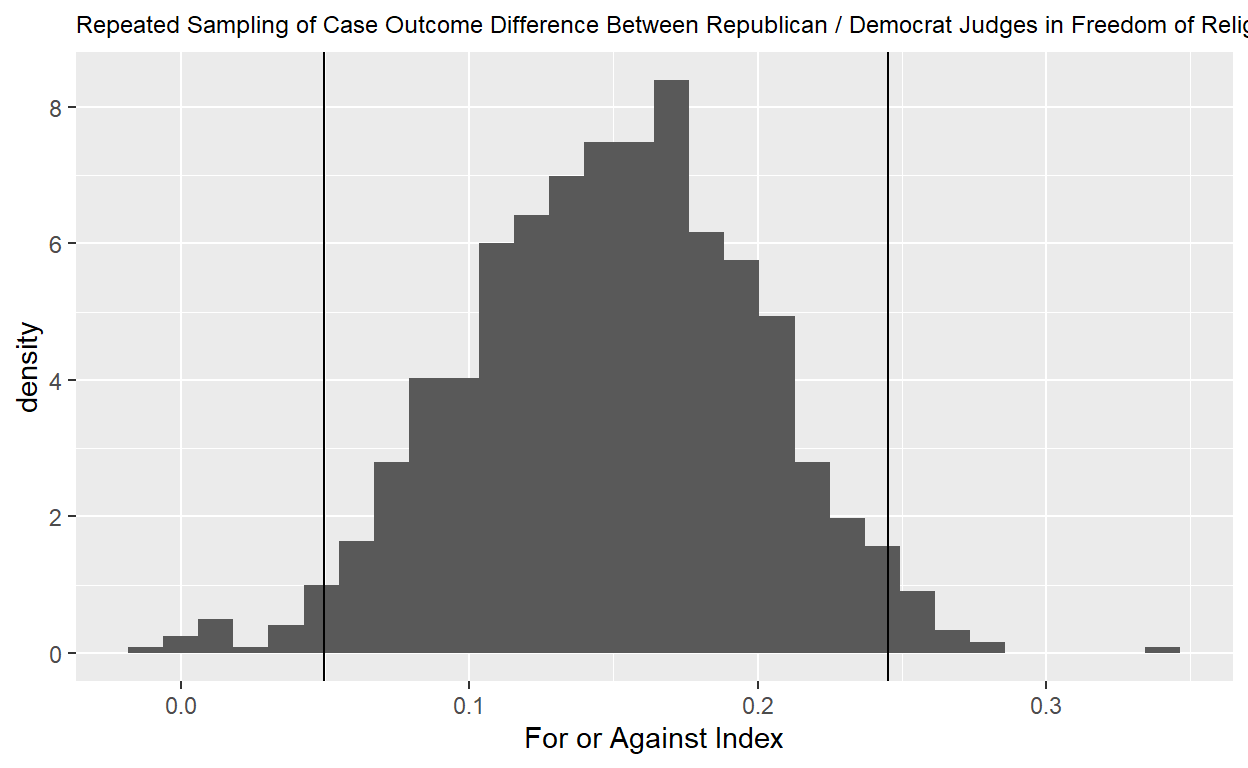
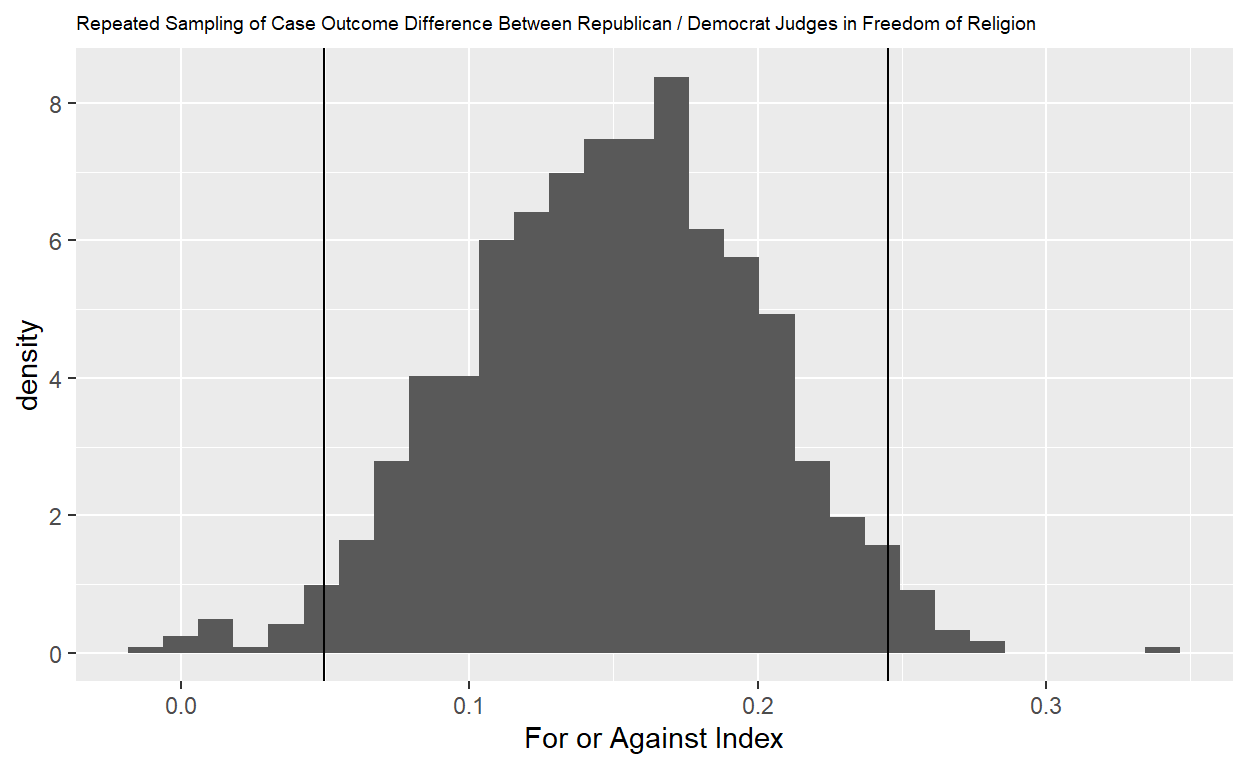
Publishing Final

diff --git a/index.html b/index.html
@@ -1524,11 +1524,11 @@ code span.wa { color: #5e5e5e; font-style: italic; } /* Warning */
 <p><img src="data/lawbench.jpg" /><!-- --></p>
 </div>
 <h2 id="introduction">Introduction</h2>
-<p>Whenever a vacancy arises in a federal district court judgeship, the President and Senate have respective responsibilities of nominating and confirming candidates. There are few formal restrictions on who can be nominated, but customarily, the candidates for these positions are chosen in consultation with the senators of the home state in which the district is located. To illustrate this practice, if a vacancy arises in the United States District Court for the Middle District of Tennessee, the President will consult with the senators from Tennessee. If the senators are of the same political party as the President, the state senators will typically identify candidates for nomination. Even if the senators are not of the same party, it remains customary to still both home state Senators to determine acceptability of the candidate (Steven Rutkus, 2016).</p>
-<p>Given the often partisan nature of these proceedings, I intend to evaluate whether the political party of a ruling judge has any impact on the average case outcome for or against defendants / petitioners. Using data from federal district courts, I will divide the cases by category, looking at issues that may be more politicized, such as alien petitions or free speech. I then will analyze if there is a statistically significant difference in average ruling between Democrat and Republican judges. I hypothesize that the political party of the judge deciding the case will have some correlation with the outcome of a case, and that on average, Democrats will be more likely than Republicans to rule in favor a defendant or petitioner.</p>
+<p>Whenever a vacancy arises in a federal district court judgeship, the President and Senate have respective responsibilities of nominating and confirming candidates. There are few formal restrictions on who can be nominated, but customarily, the candidates for these positions are chosen in consultation with the senators of the home state in which the district is located. To illustrate this practice, if a vacancy arises in the United States District Court for the Middle District of Tennessee, the President will consult with the senators from Tennessee. If the senators are of the same political party as the President, the state senators will typically identify candidates for nomination. Even if the senators are not of the same party, it remains customary to still consult both home state Senators to determine acceptability of the candidate (Steven Rutkus, 2016).</p>
+<p>Given the often partisan nature of these proceedings, I intend to evaluate whether the political party of a ruling judge has any impact on the average case outcome for or against defendants / petitioners, specifically for cases concerning issues that may be partisan. Using data from federal district courts, I will divide the cases by category, looking at issues that may be more politicized, such as alien petitions or free speech. I then will analyze if there is a statistically significant difference in average ruling between Democrat and Republican judges. I hypothesize that the political party of the judge deciding the case will have some correlation with the outcome of a case, and that on average, Democrats will be more likely than Republicans to rule in favor a defendant or petitioner.</p>
 <h2 id="data">Data</h2>
 <p>To analyze my hypotheses, I employ the U.S. District Court Database dataset by Robert Carp and Kenneth Manning. The dataset is an observational cross-section, and contains virtually all federal district court decisions published since 1933 in which holdings can be interpreted through a binary (e.g. for or against petitioner, for or against free speech). The dataset contains information by case including judge party affiliation, how the case was decided (against or in favor of the defendant/petitioner), and the category of case.</p>
-<p>I first divide the cases by category, and select several categories often discussed in relation to partisan politics like alien petitions, which concern petitions by non-citizens who might wish to immigrate to the US, freedom of expression, and environmental protection. Then, grouping by party, I measure the average of an outcome variable, which is whether a case is decided in favor of a defendant / petitioner (=1) or against (=0). An average nearing 0 in this index demonstrates a higher average of deciding against An average nearing 1 indicates a higher average of deciding in favor. To consider more recent trends and political issues, I filter the dataset to only include the years 2000-2012 and politicized case categories.</p>
+<p>I first divide the cases by category, and select several categories often discussed in relation to partisan politics like alien petitions, which concern petitions by non-citizens who might wish to immigrate to the US, freedom of expression, and environmental protection. Then, grouping by party, I measure the average of an outcome variable, which is whether a case is decided in favor of a defendant / petitioner (=1) or against (=0). An average nearing 0 in this index demonstrates a higher average of deciding against, while an average nearing 1 indicates a higher average of deciding in favor. To consider more recent trends and political issues, I filter the dataset to only include the years 2000-2012 and politicized case categories.</p>
 <div class="layout-chunk" data-layout="l-body">
 <div class="sourceCode">
 <pre class="sourceCode r"><code class="sourceCode r"><span><span class='co'>#libraries</span></span>
@@ -1655,7 +1655,7 @@ code span.wa { color: #5e5e5e; font-style: italic; } /* Warning */
 <span></span>
 <span><span class='co'>#Bootstrap distribution and CI plot</span></span>
 <span><span class='va'>ap_boots_dist</span> <span class='op'>&lt;-</span> <span class='va'>ap_boots</span><span class='op'>|&gt;</span></span>
-<span>  <span class='fu'><a href='https://ggplot2.tidyverse.org/reference/ggplot.html'>ggplot</a></span><span class='op'>(</span><span class='fu'><a href='https://ggplot2.tidyverse.org/reference/aes.html'>aes</a></span><span class='op'>(</span>x<span class='op'>=</span><span class='va'>ATE</span><span class='op'>)</span><span class='op'>)</span><span class='op'>+</span><span class='fu'><a href='https://ggplot2.tidyverse.org/reference/geom_histogram.html'>geom_histogram</a></span><span class='op'>(</span><span class='fu'><a href='https://ggplot2.tidyverse.org/reference/aes.html'>aes</a></span><span class='op'>(</span>y<span class='op'>=</span><span class='fu'><a href='https://ggplot2.tidyverse.org/reference/aes_eval.html'>after_stat</a></span><span class='op'>(</span><span class='va'>density</span><span class='op'>)</span><span class='op'>)</span><span class='op'>)</span><span class='op'>+</span><span class='fu'><a href='https://ggplot2.tidyverse.org/reference/geom_abline.html'>geom_vline</a></span><span class='op'>(</span>xintercept<span class='op'>=</span><span class='fu'><a href='https://rdrr.io/r/base/unlist.html'>unlist</a></span><span class='op'>(</span><span class='va'>ap_95</span><span class='op'>)</span><span class='op'>)</span><span class='op'>+</span><span class='fu'><a href='https://ggplot2.tidyverse.org/reference/labs.html'>labs</a></span><span class='op'>(</span>title <span class='op'>=</span> <span class='st'>"Repeated Sampling of Case Outcome Difference Between Republican / Democrat Judges in Alien Petitions"</span>, x <span class='op'>=</span> <span class='st'>"For or Against Index"</span><span class='op'>)</span><span class='op'>+</span><span class='fu'><a href='https://ggplot2.tidyverse.org/reference/theme.html'>theme</a></span><span class='op'>(</span>plot.title <span class='op'>=</span> <span class='fu'><a href='https://ggplot2.tidyverse.org/reference/element.html'>element_text</a></span><span class='op'>(</span>size <span class='op'>=</span> <span class='fl'>9</span><span class='op'>)</span><span class='op'>)</span></span>
+<span>  <span class='fu'><a href='https://ggplot2.tidyverse.org/reference/ggplot.html'>ggplot</a></span><span class='op'>(</span><span class='fu'><a href='https://ggplot2.tidyverse.org/reference/aes.html'>aes</a></span><span class='op'>(</span>x<span class='op'>=</span><span class='va'>ATE</span><span class='op'>)</span><span class='op'>)</span><span class='op'>+</span><span class='fu'><a href='https://ggplot2.tidyverse.org/reference/geom_histogram.html'>geom_histogram</a></span><span class='op'>(</span><span class='fu'><a href='https://ggplot2.tidyverse.org/reference/aes.html'>aes</a></span><span class='op'>(</span>y<span class='op'>=</span><span class='fu'><a href='https://ggplot2.tidyverse.org/reference/aes_eval.html'>after_stat</a></span><span class='op'>(</span><span class='va'>density</span><span class='op'>)</span><span class='op'>)</span><span class='op'>)</span><span class='op'>+</span><span class='fu'><a href='https://ggplot2.tidyverse.org/reference/geom_abline.html'>geom_vline</a></span><span class='op'>(</span>xintercept<span class='op'>=</span><span class='fu'><a href='https://rdrr.io/r/base/unlist.html'>unlist</a></span><span class='op'>(</span><span class='va'>ap_95</span><span class='op'>)</span><span class='op'>)</span><span class='op'>+</span><span class='fu'><a href='https://ggplot2.tidyverse.org/reference/labs.html'>labs</a></span><span class='op'>(</span>title <span class='op'>=</span> <span class='st'>"Repeated Sampling of Case Outcome Difference Between Republican / Democrat Judges in Alien Petitions"</span>, x <span class='op'>=</span> <span class='st'>"For or Against Index"</span><span class='op'>)</span><span class='op'>+</span><span class='fu'><a href='https://ggplot2.tidyverse.org/reference/theme.html'>theme</a></span><span class='op'>(</span>plot.title <span class='op'>=</span> <span class='fu'><a href='https://ggplot2.tidyverse.org/reference/element.html'>element_text</a></span><span class='op'>(</span>size <span class='op'>=</span> <span class='fl'>7</span><span class='op'>)</span><span class='op'>)</span></span>
 <span></span>
 <span><span class='va'>ap_boots_dist</span></span></code></pre>
 </div>
@@ -1720,13 +1720,13 @@ code span.wa { color: #5e5e5e; font-style: italic; } /* Warning */
 <span></span>
 <span><span class='co'>#Bootstrap distribution and CI plot</span></span>
 <span><span class='va'>cc_boots_dist</span> <span class='op'>&lt;-</span> <span class='va'>cc_boots</span><span class='op'>|&gt;</span></span>
-<span>  <span class='fu'><a href='https://ggplot2.tidyverse.org/reference/ggplot.html'>ggplot</a></span><span class='op'>(</span><span class='fu'><a href='https://ggplot2.tidyverse.org/reference/aes.html'>aes</a></span><span class='op'>(</span>x<span class='op'>=</span><span class='va'>ATE</span><span class='op'>)</span><span class='op'>)</span><span class='op'>+</span><span class='fu'><a href='https://ggplot2.tidyverse.org/reference/geom_histogram.html'>geom_histogram</a></span><span class='op'>(</span><span class='fu'><a href='https://ggplot2.tidyverse.org/reference/aes.html'>aes</a></span><span class='op'>(</span>y<span class='op'>=</span><span class='fu'><a href='https://ggplot2.tidyverse.org/reference/aes_eval.html'>after_stat</a></span><span class='op'>(</span><span class='va'>density</span><span class='op'>)</span><span class='op'>)</span><span class='op'>)</span><span class='op'>+</span><span class='fu'><a href='https://ggplot2.tidyverse.org/reference/geom_abline.html'>geom_vline</a></span><span class='op'>(</span>xintercept<span class='op'>=</span><span class='fu'><a href='https://rdrr.io/r/base/unlist.html'>unlist</a></span><span class='op'>(</span><span class='va'>cc_95</span><span class='op'>)</span><span class='op'>)</span><span class='op'>+</span><span class='fu'><a href='https://ggplot2.tidyverse.org/reference/labs.html'>labs</a></span><span class='op'>(</span>title <span class='op'>=</span> <span class='st'>"Repeated Sampling of Case Outcome Difference Between Republican / Democrat Judges in Criminal Court Motions"</span>, x <span class='op'>=</span> <span class='st'>"For or Against Index"</span><span class='op'>)</span><span class='op'>+</span><span class='fu'><a href='https://ggplot2.tidyverse.org/reference/theme.html'>theme</a></span><span class='op'>(</span>plot.title <span class='op'>=</span> <span class='fu'><a href='https://ggplot2.tidyverse.org/reference/element.html'>element_text</a></span><span class='op'>(</span>size <span class='op'>=</span> <span class='fl'>9</span><span class='op'>)</span><span class='op'>)</span></span>
+<span>  <span class='fu'><a href='https://ggplot2.tidyverse.org/reference/ggplot.html'>ggplot</a></span><span class='op'>(</span><span class='fu'><a href='https://ggplot2.tidyverse.org/reference/aes.html'>aes</a></span><span class='op'>(</span>x<span class='op'>=</span><span class='va'>ATE</span><span class='op'>)</span><span class='op'>)</span><span class='op'>+</span><span class='fu'><a href='https://ggplot2.tidyverse.org/reference/geom_histogram.html'>geom_histogram</a></span><span class='op'>(</span><span class='fu'><a href='https://ggplot2.tidyverse.org/reference/aes.html'>aes</a></span><span class='op'>(</span>y<span class='op'>=</span><span class='fu'><a href='https://ggplot2.tidyverse.org/reference/aes_eval.html'>after_stat</a></span><span class='op'>(</span><span class='va'>density</span><span class='op'>)</span><span class='op'>)</span><span class='op'>)</span><span class='op'>+</span><span class='fu'><a href='https://ggplot2.tidyverse.org/reference/geom_abline.html'>geom_vline</a></span><span class='op'>(</span>xintercept<span class='op'>=</span><span class='fu'><a href='https://rdrr.io/r/base/unlist.html'>unlist</a></span><span class='op'>(</span><span class='va'>cc_95</span><span class='op'>)</span><span class='op'>)</span><span class='op'>+</span><span class='fu'><a href='https://ggplot2.tidyverse.org/reference/labs.html'>labs</a></span><span class='op'>(</span>title <span class='op'>=</span> <span class='st'>"Repeated Sampling of Case Outcome Difference Between Republican / Democrat Judges in Criminal Court Motions"</span>, x <span class='op'>=</span> <span class='st'>"For or Against Index"</span><span class='op'>)</span><span class='op'>+</span><span class='fu'><a href='https://ggplot2.tidyverse.org/reference/theme.html'>theme</a></span><span class='op'>(</span>plot.title <span class='op'>=</span> <span class='fu'><a href='https://ggplot2.tidyverse.org/reference/element.html'>element_text</a></span><span class='op'>(</span>size <span class='op'>=</span> <span class='fl'>7</span><span class='op'>)</span><span class='op'>)</span></span>
 <span></span>
 <span><span class='va'>cc_boots_dist</span></span></code></pre>
 </div>
 <p><img src="index_files/figure-html5/unnamed-chunk-5-1.png" width="624" /></p>
 </div>
-<p>Partisan average outcomes in Criminal Court Motions</p>
+<p>Partisan Average outcomes in Criminal Court Motions</p>
 <p>Regression: After running a linear regression for Criminal Court Motion cases, the Y intercept is 0.410 when the ruling judge’s political party is not Republican, or conversely, when the judge is a Democrat. This indicates that on the 0-1 index of ruling against or in favor of a petitioner, Democrat judges have an average ruling outcome of 0.410 points. This means that if a Democrat judge were to become Republican, there would be an expected -0.125 point decrease in average case outcome in favor of a defendant / petitioner. The median of the bootstrap distribution appears to be centered around this point difference.</p>
 <p>Null hypothesis: After taking the difference in means for case outcome by party, we create a bootstrap distribution with repeated sampling of this difference. A 95% confidence interval is employed, shown by the two vertical lines on the graph. A 95% confidence interval means that across the repeated samples, the true value of difference in case outcome by political party will fall within the interval. If there is no difference at all, which would be our null hypothesis, this would be indicated by 0 falling within the confidence interval. However, this does not happen above, leading us to conclude that there is a statistically significant difference between Criminal Court Motion cases decided by Republican and Democrat judges.</p>
 <div class="layout-chunk" data-layout="l-body">
@@ -1783,14 +1783,14 @@ code span.wa { color: #5e5e5e; font-style: italic; } /* Warning */
 <span>  <span class='fu'><a href='https://infer.tidymodels.org/reference/get_confidence_interval.html'>get_ci</a></span><span class='op'>(</span>level<span class='op'>=</span><span class='fl'>0.95</span><span class='op'>)</span></span>
 <span></span>
 <span><span class='va'>ep_boots_dist</span> <span class='op'>&lt;-</span> <span class='va'>ep_boots</span><span class='op'>|&gt;</span></span>
-<span>  <span class='fu'><a href='https://ggplot2.tidyverse.org/reference/ggplot.html'>ggplot</a></span><span class='op'>(</span><span class='fu'><a href='https://ggplot2.tidyverse.org/reference/aes.html'>aes</a></span><span class='op'>(</span>x<span class='op'>=</span><span class='va'>ATE</span><span class='op'>)</span><span class='op'>)</span><span class='op'>+</span><span class='fu'><a href='https://ggplot2.tidyverse.org/reference/geom_histogram.html'>geom_histogram</a></span><span class='op'>(</span><span class='fu'><a href='https://ggplot2.tidyverse.org/reference/aes.html'>aes</a></span><span class='op'>(</span>y<span class='op'>=</span><span class='fu'><a href='https://ggplot2.tidyverse.org/reference/aes_eval.html'>after_stat</a></span><span class='op'>(</span><span class='va'>density</span><span class='op'>)</span><span class='op'>)</span><span class='op'>)</span><span class='op'>+</span><span class='fu'><a href='https://ggplot2.tidyverse.org/reference/geom_abline.html'>geom_vline</a></span><span class='op'>(</span>xintercept<span class='op'>=</span><span class='fu'><a href='https://rdrr.io/r/base/unlist.html'>unlist</a></span><span class='op'>(</span><span class='va'>ep_95</span><span class='op'>)</span><span class='op'>)</span><span class='op'>+</span><span class='fu'><a href='https://ggplot2.tidyverse.org/reference/labs.html'>labs</a></span><span class='op'>(</span>title <span class='op'>=</span> <span class='st'>"Repeated Sampling of Case Outcome Difference Between Republican / Democrat Judges in Environmental Protection"</span>, x <span class='op'>=</span> <span class='st'>"For or Against Index"</span><span class='op'>)</span><span class='op'>+</span><span class='fu'><a href='https://ggplot2.tidyverse.org/reference/theme.html'>theme</a></span><span class='op'>(</span>plot.title <span class='op'>=</span> <span class='fu'><a href='https://ggplot2.tidyverse.org/reference/element.html'>element_text</a></span><span class='op'>(</span>size <span class='op'>=</span> <span class='fl'>9</span><span class='op'>)</span><span class='op'>)</span></span>
+<span>  <span class='fu'><a href='https://ggplot2.tidyverse.org/reference/ggplot.html'>ggplot</a></span><span class='op'>(</span><span class='fu'><a href='https://ggplot2.tidyverse.org/reference/aes.html'>aes</a></span><span class='op'>(</span>x<span class='op'>=</span><span class='va'>ATE</span><span class='op'>)</span><span class='op'>)</span><span class='op'>+</span><span class='fu'><a href='https://ggplot2.tidyverse.org/reference/geom_histogram.html'>geom_histogram</a></span><span class='op'>(</span><span class='fu'><a href='https://ggplot2.tidyverse.org/reference/aes.html'>aes</a></span><span class='op'>(</span>y<span class='op'>=</span><span class='fu'><a href='https://ggplot2.tidyverse.org/reference/aes_eval.html'>after_stat</a></span><span class='op'>(</span><span class='va'>density</span><span class='op'>)</span><span class='op'>)</span><span class='op'>)</span><span class='op'>+</span><span class='fu'><a href='https://ggplot2.tidyverse.org/reference/geom_abline.html'>geom_vline</a></span><span class='op'>(</span>xintercept<span class='op'>=</span><span class='fu'><a href='https://rdrr.io/r/base/unlist.html'>unlist</a></span><span class='op'>(</span><span class='va'>ep_95</span><span class='op'>)</span><span class='op'>)</span><span class='op'>+</span><span class='fu'><a href='https://ggplot2.tidyverse.org/reference/labs.html'>labs</a></span><span class='op'>(</span>title <span class='op'>=</span> <span class='st'>"Repeated Sampling of Case Outcome Difference Between Republican / Democrat Judges in Environmental Protection"</span>, x <span class='op'>=</span> <span class='st'>"For or Against Index"</span><span class='op'>)</span><span class='op'>+</span><span class='fu'><a href='https://ggplot2.tidyverse.org/reference/theme.html'>theme</a></span><span class='op'>(</span>plot.title <span class='op'>=</span> <span class='fu'><a href='https://ggplot2.tidyverse.org/reference/element.html'>element_text</a></span><span class='op'>(</span>size <span class='op'>=</span> <span class='fl'>7</span><span class='op'>)</span><span class='op'>)</span></span>
 <span></span>
 <span><span class='va'>ep_boots_dist</span></span></code></pre>
 </div>
 <p><img src="index_files/figure-html5/unnamed-chunk-6-1.png" width="624" /></p>
 </div>
 <p>Partisan Average Outcomes in Environmental Protection Cases</p>
-<p>Regression: After running a linear regression for Environmental Protection cases, the Y intercept is 0.635 when the ruling judge’s political party is not Republican, or conversely, when the judge is a Democrat. This indicates that on the 0-1 index of ruling against or in favor of a petitioner, Democrat judges have an average ruling outcome of 0.410 points. This means that if a Democrat judge were to become Republican, there would be an expected -0.117 point decrease in average case outcome in favor of a defendant / petitioner. The median of the bootstrap distribution appears to be centered around this point difference.</p>
+<p>Regression: After running a linear regression for Environmental Protection cases, the Y intercept is 0.635 when the ruling judge’s political party is not Republican, or conversely, when the judge is a Democrat. This indicates that on the 0-1 index of ruling against or in favor of a petitioner, Democrat judges have an average ruling outcome of 0.635 points. This means that if a Democrat judge were to become Republican, there would be an expected -0.117 point decrease in average case outcome in favor of a defendant / petitioner. The median of the bootstrap distribution appears to be centered around this point difference.</p>
 <p>Null hypothesis: After taking the difference in means for case outcome by party, we create a bootstrap distribution with repeated sampling of this difference. A 95% confidence interval is employed, shown by the two vertical lines on the graph. A 95% confidence interval means that across the repeated samples, the true value of difference in case outcome by political party will fall within the interval. If there is no difference at all, which would be our null hypothesis, this would be indicated by 0 falling within the confidence interval. However, this does not happen above, leading us to conclude that there is a statistically significant difference between Environmental Protection cases decided by Republican and Democrat judges.</p>
 <div class="layout-chunk" data-layout="l-body">
 <div class="sourceCode">
@@ -1844,14 +1844,14 @@ code span.wa { color: #5e5e5e; font-style: italic; } /* Warning */
 <span>  <span class='fu'><a href='https://infer.tidymodels.org/reference/get_confidence_interval.html'>get_ci</a></span><span class='op'>(</span>level<span class='op'>=</span><span class='fl'>0.95</span><span class='op'>)</span></span>
 <span></span>
 <span><span class='va'>foe_boots_dist</span> <span class='op'>&lt;-</span> <span class='va'>foe_boots</span><span class='op'>|&gt;</span></span>
-<span>  <span class='fu'><a href='https://ggplot2.tidyverse.org/reference/ggplot.html'>ggplot</a></span><span class='op'>(</span><span class='fu'><a href='https://ggplot2.tidyverse.org/reference/aes.html'>aes</a></span><span class='op'>(</span>x<span class='op'>=</span><span class='va'>ATE</span><span class='op'>)</span><span class='op'>)</span><span class='op'>+</span><span class='fu'><a href='https://ggplot2.tidyverse.org/reference/geom_histogram.html'>geom_histogram</a></span><span class='op'>(</span><span class='fu'><a href='https://ggplot2.tidyverse.org/reference/aes.html'>aes</a></span><span class='op'>(</span>y<span class='op'>=</span><span class='fu'><a href='https://ggplot2.tidyverse.org/reference/aes_eval.html'>after_stat</a></span><span class='op'>(</span><span class='va'>density</span><span class='op'>)</span><span class='op'>)</span><span class='op'>)</span><span class='op'>+</span><span class='fu'><a href='https://ggplot2.tidyverse.org/reference/geom_abline.html'>geom_vline</a></span><span class='op'>(</span>xintercept<span class='op'>=</span><span class='fu'><a href='https://rdrr.io/r/base/unlist.html'>unlist</a></span><span class='op'>(</span><span class='va'>foe_95</span><span class='op'>)</span><span class='op'>)</span><span class='op'>+</span><span class='fu'><a href='https://ggplot2.tidyverse.org/reference/labs.html'>labs</a></span><span class='op'>(</span>title <span class='op'>=</span> <span class='st'>"Repeated Sampling of Case Outcome Difference Between Republican / Democrat Judges in Freedom of Expression"</span>, x <span class='op'>=</span> <span class='st'>"For or Against Index"</span><span class='op'>)</span><span class='op'>+</span><span class='fu'><a href='https://ggplot2.tidyverse.org/reference/theme.html'>theme</a></span><span class='op'>(</span>plot.title <span class='op'>=</span> <span class='fu'><a href='https://ggplot2.tidyverse.org/reference/element.html'>element_text</a></span><span class='op'>(</span>size <span class='op'>=</span> <span class='fl'>9</span><span class='op'>)</span><span class='op'>)</span></span>
+<span>  <span class='fu'><a href='https://ggplot2.tidyverse.org/reference/ggplot.html'>ggplot</a></span><span class='op'>(</span><span class='fu'><a href='https://ggplot2.tidyverse.org/reference/aes.html'>aes</a></span><span class='op'>(</span>x<span class='op'>=</span><span class='va'>ATE</span><span class='op'>)</span><span class='op'>)</span><span class='op'>+</span><span class='fu'><a href='https://ggplot2.tidyverse.org/reference/geom_histogram.html'>geom_histogram</a></span><span class='op'>(</span><span class='fu'><a href='https://ggplot2.tidyverse.org/reference/aes.html'>aes</a></span><span class='op'>(</span>y<span class='op'>=</span><span class='fu'><a href='https://ggplot2.tidyverse.org/reference/aes_eval.html'>after_stat</a></span><span class='op'>(</span><span class='va'>density</span><span class='op'>)</span><span class='op'>)</span><span class='op'>)</span><span class='op'>+</span><span class='fu'><a href='https://ggplot2.tidyverse.org/reference/geom_abline.html'>geom_vline</a></span><span class='op'>(</span>xintercept<span class='op'>=</span><span class='fu'><a href='https://rdrr.io/r/base/unlist.html'>unlist</a></span><span class='op'>(</span><span class='va'>foe_95</span><span class='op'>)</span><span class='op'>)</span><span class='op'>+</span><span class='fu'><a href='https://ggplot2.tidyverse.org/reference/labs.html'>labs</a></span><span class='op'>(</span>title <span class='op'>=</span> <span class='st'>"Repeated Sampling of Case Outcome Difference Between Republican / Democrat Judges in Freedom of Expression"</span>, x <span class='op'>=</span> <span class='st'>"For or Against Index"</span><span class='op'>)</span><span class='op'>+</span><span class='fu'><a href='https://ggplot2.tidyverse.org/reference/theme.html'>theme</a></span><span class='op'>(</span>plot.title <span class='op'>=</span> <span class='fu'><a href='https://ggplot2.tidyverse.org/reference/element.html'>element_text</a></span><span class='op'>(</span>size <span class='op'>=</span> <span class='fl'>7</span><span class='op'>)</span><span class='op'>)</span></span>
 <span></span>
 <span><span class='va'>foe_boots_dist</span></span></code></pre>
 </div>
 <p><img src="index_files/figure-html5/unnamed-chunk-7-1.png" width="624" /></p>
 </div>
 <p>Partisan Average Outcomes in Freedom of Expression Cases</p>
-<p>Regression: After running a linear regression for Environmental Protection cases, the Y intercept is 0.583 when the ruling judge’s political party is not Republican, or conversely, when the judge is a Democrat. This indicates that on the 0-1 index of ruling against or in favor of a petitioner, Democrat judges have an average ruling outcome of 0.410 points. This means that if a Democrat judge were to become Republican, there would be an expected -0.044 point decrease in average case outcome in favor of a defendant / petitioner. The median of the bootstrap distribution appears to be centered around this point difference. Compared to other categories of cases, the difference in case outcome by judge party, is very slim.</p>
+<p>Regression: After running a linear regression for Environmental Protection cases, the Y intercept is 0.583 when the ruling judge’s political party is not Republican, or conversely, when the judge is a Democrat. This indicates that on the 0-1 index of ruling against or in favor of a petitioner, Democrat judges have an average ruling outcome of 0.583 points. This means that if a Democrat judge were to become Republican, there would be an expected -0.044 point decrease in average case outcome in favor of a defendant / petitioner. The median of the bootstrap distribution appears to be centered around this point difference. Compared to other categories of cases, the difference in case outcome by judge party, is very slim.</p>
 <p>Null hypothesis: After taking the difference in means for case outcome by party, we create a bootstrap distribution with repeated sampling of this difference. A 95% confidence interval is employed, shown by the two vertical lines on the graph. A 95% confidence interval means that across the repeated samples, the true value of difference in case outcome by political party will fall within the interval. If there is no difference at all, which would be our null hypothesis, this would be indicated by 0 falling within the confidence interval. This DOES happen here, with 0 falling with the lower and upper bounds. Thus, we should fail to reject the null hypothesis and as such, cannot find a statistically significant difference between judge parties in freedom of expression cases.</p>
 <div class="layout-chunk" data-layout="l-body">
 <div class="sourceCode">
@@ -1906,14 +1906,14 @@ code span.wa { color: #5e5e5e; font-style: italic; } /* Warning */
 <span>  <span class='fu'><a href='https://infer.tidymodels.org/reference/get_confidence_interval.html'>get_ci</a></span><span class='op'>(</span>level<span class='op'>=</span><span class='fl'>0.95</span><span class='op'>)</span></span>
 <span></span>
 <span><span class='va'>fore_boots_dist</span> <span class='op'>&lt;-</span> <span class='va'>fore_boots</span><span class='op'>|&gt;</span></span>
-<span>  <span class='fu'><a href='https://ggplot2.tidyverse.org/reference/ggplot.html'>ggplot</a></span><span class='op'>(</span><span class='fu'><a href='https://ggplot2.tidyverse.org/reference/aes.html'>aes</a></span><span class='op'>(</span>x<span class='op'>=</span><span class='va'>ATE</span><span class='op'>)</span><span class='op'>)</span><span class='op'>+</span><span class='fu'><a href='https://ggplot2.tidyverse.org/reference/geom_histogram.html'>geom_histogram</a></span><span class='op'>(</span><span class='fu'><a href='https://ggplot2.tidyverse.org/reference/aes.html'>aes</a></span><span class='op'>(</span>y<span class='op'>=</span><span class='fu'><a href='https://ggplot2.tidyverse.org/reference/aes_eval.html'>after_stat</a></span><span class='op'>(</span><span class='va'>density</span><span class='op'>)</span><span class='op'>)</span><span class='op'>)</span><span class='op'>+</span><span class='fu'><a href='https://ggplot2.tidyverse.org/reference/geom_abline.html'>geom_vline</a></span><span class='op'>(</span>xintercept<span class='op'>=</span><span class='fu'><a href='https://rdrr.io/r/base/unlist.html'>unlist</a></span><span class='op'>(</span><span class='va'>fore_95</span><span class='op'>)</span><span class='op'>)</span><span class='op'>+</span><span class='fu'><a href='https://ggplot2.tidyverse.org/reference/labs.html'>labs</a></span><span class='op'>(</span>title <span class='op'>=</span> <span class='st'>"Repeated Sampling of Case Outcome Difference Between Republican / Democrat Judges in Freedom of Religion"</span>, x <span class='op'>=</span> <span class='st'>"For or Against Index"</span><span class='op'>)</span><span class='op'>+</span><span class='fu'><a href='https://ggplot2.tidyverse.org/reference/theme.html'>theme</a></span><span class='op'>(</span>plot.title <span class='op'>=</span> <span class='fu'><a href='https://ggplot2.tidyverse.org/reference/element.html'>element_text</a></span><span class='op'>(</span>size <span class='op'>=</span> <span class='fl'>9</span><span class='op'>)</span><span class='op'>)</span></span>
+<span>  <span class='fu'><a href='https://ggplot2.tidyverse.org/reference/ggplot.html'>ggplot</a></span><span class='op'>(</span><span class='fu'><a href='https://ggplot2.tidyverse.org/reference/aes.html'>aes</a></span><span class='op'>(</span>x<span class='op'>=</span><span class='va'>ATE</span><span class='op'>)</span><span class='op'>)</span><span class='op'>+</span><span class='fu'><a href='https://ggplot2.tidyverse.org/reference/geom_histogram.html'>geom_histogram</a></span><span class='op'>(</span><span class='fu'><a href='https://ggplot2.tidyverse.org/reference/aes.html'>aes</a></span><span class='op'>(</span>y<span class='op'>=</span><span class='fu'><a href='https://ggplot2.tidyverse.org/reference/aes_eval.html'>after_stat</a></span><span class='op'>(</span><span class='va'>density</span><span class='op'>)</span><span class='op'>)</span><span class='op'>)</span><span class='op'>+</span><span class='fu'><a href='https://ggplot2.tidyverse.org/reference/geom_abline.html'>geom_vline</a></span><span class='op'>(</span>xintercept<span class='op'>=</span><span class='fu'><a href='https://rdrr.io/r/base/unlist.html'>unlist</a></span><span class='op'>(</span><span class='va'>fore_95</span><span class='op'>)</span><span class='op'>)</span><span class='op'>+</span><span class='fu'><a href='https://ggplot2.tidyverse.org/reference/labs.html'>labs</a></span><span class='op'>(</span>title <span class='op'>=</span> <span class='st'>"Repeated Sampling of Case Outcome Difference Between Republican / Democrat Judges in Freedom of Religion"</span>, x <span class='op'>=</span> <span class='st'>"For or Against Index"</span><span class='op'>)</span><span class='op'>+</span><span class='fu'><a href='https://ggplot2.tidyverse.org/reference/theme.html'>theme</a></span><span class='op'>(</span>plot.title <span class='op'>=</span> <span class='fu'><a href='https://ggplot2.tidyverse.org/reference/element.html'>element_text</a></span><span class='op'>(</span>size <span class='op'>=</span> <span class='fl'>7</span><span class='op'>)</span><span class='op'>)</span></span>
 <span></span>
 <span><span class='va'>fore_boots_dist</span></span></code></pre>
 </div>
 <p><img src="index_files/figure-html5/unnamed-chunk-8-1.png" width="624" /></p>
 </div>
 <p>Partisan Average Outcomes in Freedom of Religion Cases</p>
-<p>Regression: After running a linear regression for Environmental Protection cases, the Y intercept is 0.610 when the ruling judge’s political party is not Republican, or conversely, when the judge is a Democrat. This indicates that on the 0-1 index of ruling against or in favor of a petitioner, Democrat judges have an average ruling outcome of 0.410 points. This means that if a Democrat judge were to become Republican, there would be an expected -0.151 point decrease in average case outcome in favor of a defendant / petitioner. The median of the bootstrap distribution appears to be centered around this point difference.</p>
+<p>Regression: After running a linear regression for Environmental Protection cases, the Y intercept is 0.610 when the ruling judge’s political party is not Republican, or conversely, when the judge is a Democrat. This indicates that on the 0-1 index of ruling against or in favor of a petitioner, Democrat judges have an average ruling outcome of 0.610 points. This means that if a Democrat judge were to become Republican, there would be an expected -0.151 point decrease in average case outcome in favor of a defendant / petitioner. The median of the bootstrap distribution appears to be centered around this point difference.</p>
 <p>Null hypothesis: After taking the difference in means for case outcome by party, we create a bootstrap distribution with repeated sampling of this difference. A 95% confidence interval is employed, shown by the two vertical lines on the graph. A 95% confidence interval means that across the repeated samples, the true value of difference in case outcome by political party will fall within the interval. If there is no difference at all, which would be our null hypothesis, this would be indicated by 0 falling within the confidence interval. However, this does not happen above, leading us to conclude that there is a statistically significant difference between Environmental Protection cases decided by Republican and Democrat judges.</p>
 <div class="layout-chunk" data-layout="l-body">
 <div class="sourceCode">
@@ -1962,19 +1962,20 @@ code span.wa { color: #5e5e5e; font-style: italic; } /* Warning */
 <span>    ATE <span class='op'>=</span> <span class='va'>Democrat</span> <span class='op'>-</span> <span class='va'>Republican</span></span>
 <span>  <span class='op'>)</span></span>
 <span></span>
+<span><span class='co'>#CI</span></span>
 <span><span class='va'>rd_95</span> <span class='op'>&lt;-</span> <span class='va'>rd_boots</span> <span class='op'>|&gt;</span></span>
 <span>  <span class='fu'><a href='https://dplyr.tidyverse.org/reference/select.html'>select</a></span><span class='op'>(</span><span class='va'>replicate</span>, <span class='va'>ATE</span><span class='op'>)</span><span class='op'>|&gt;</span></span>
 <span>  <span class='fu'><a href='https://infer.tidymodels.org/reference/get_confidence_interval.html'>get_ci</a></span><span class='op'>(</span>level<span class='op'>=</span><span class='fl'>0.95</span><span class='op'>)</span></span>
 <span></span>
 <span><span class='va'>rd_boots_dist</span> <span class='op'>&lt;-</span> <span class='va'>rd_boots</span><span class='op'>|&gt;</span></span>
-<span>  <span class='fu'><a href='https://ggplot2.tidyverse.org/reference/ggplot.html'>ggplot</a></span><span class='op'>(</span><span class='fu'><a href='https://ggplot2.tidyverse.org/reference/aes.html'>aes</a></span><span class='op'>(</span>x<span class='op'>=</span><span class='va'>ATE</span><span class='op'>)</span><span class='op'>)</span><span class='op'>+</span><span class='fu'><a href='https://ggplot2.tidyverse.org/reference/geom_histogram.html'>geom_histogram</a></span><span class='op'>(</span><span class='fu'><a href='https://ggplot2.tidyverse.org/reference/aes.html'>aes</a></span><span class='op'>(</span>y<span class='op'>=</span><span class='fu'><a href='https://ggplot2.tidyverse.org/reference/aes_eval.html'>after_stat</a></span><span class='op'>(</span><span class='va'>density</span><span class='op'>)</span><span class='op'>)</span><span class='op'>)</span><span class='op'>+</span><span class='fu'><a href='https://ggplot2.tidyverse.org/reference/geom_abline.html'>geom_vline</a></span><span class='op'>(</span>xintercept<span class='op'>=</span><span class='fu'><a href='https://rdrr.io/r/base/unlist.html'>unlist</a></span><span class='op'>(</span><span class='va'>rd_95</span><span class='op'>)</span><span class='op'>)</span><span class='op'>+</span><span class='fu'><a href='https://ggplot2.tidyverse.org/reference/labs.html'>labs</a></span><span class='op'>(</span>title <span class='op'>=</span> <span class='st'>"Repeated Sampling of Case Outcome Difference Between Republican / Democrat Judges in Racial Discrimination"</span>, x <span class='op'>=</span> <span class='st'>"For or Against Index"</span><span class='op'>)</span><span class='op'>+</span><span class='fu'><a href='https://ggplot2.tidyverse.org/reference/theme.html'>theme</a></span><span class='op'>(</span>plot.title <span class='op'>=</span> <span class='fu'><a href='https://ggplot2.tidyverse.org/reference/element.html'>element_text</a></span><span class='op'>(</span>size <span class='op'>=</span> <span class='fl'>9</span><span class='op'>)</span><span class='op'>)</span></span>
+<span>  <span class='fu'><a href='https://ggplot2.tidyverse.org/reference/ggplot.html'>ggplot</a></span><span class='op'>(</span><span class='fu'><a href='https://ggplot2.tidyverse.org/reference/aes.html'>aes</a></span><span class='op'>(</span>x<span class='op'>=</span><span class='va'>ATE</span><span class='op'>)</span><span class='op'>)</span><span class='op'>+</span><span class='fu'><a href='https://ggplot2.tidyverse.org/reference/geom_histogram.html'>geom_histogram</a></span><span class='op'>(</span><span class='fu'><a href='https://ggplot2.tidyverse.org/reference/aes.html'>aes</a></span><span class='op'>(</span>y<span class='op'>=</span><span class='fu'><a href='https://ggplot2.tidyverse.org/reference/aes_eval.html'>after_stat</a></span><span class='op'>(</span><span class='va'>density</span><span class='op'>)</span><span class='op'>)</span><span class='op'>)</span><span class='op'>+</span><span class='fu'><a href='https://ggplot2.tidyverse.org/reference/geom_abline.html'>geom_vline</a></span><span class='op'>(</span>xintercept<span class='op'>=</span><span class='fu'><a href='https://rdrr.io/r/base/unlist.html'>unlist</a></span><span class='op'>(</span><span class='va'>rd_95</span><span class='op'>)</span><span class='op'>)</span><span class='op'>+</span><span class='fu'><a href='https://ggplot2.tidyverse.org/reference/labs.html'>labs</a></span><span class='op'>(</span>title <span class='op'>=</span> <span class='st'>"Repeated Sampling of Case Outcome Difference Between Republican / Democrat Judges in Racial Discrimination"</span>, x <span class='op'>=</span> <span class='st'>"For or Against Index"</span><span class='op'>)</span><span class='op'>+</span><span class='fu'><a href='https://ggplot2.tidyverse.org/reference/theme.html'>theme</a></span><span class='op'>(</span>plot.title <span class='op'>=</span> <span class='fu'><a href='https://ggplot2.tidyverse.org/reference/element.html'>element_text</a></span><span class='op'>(</span>size <span class='op'>=</span> <span class='fl'>7</span><span class='op'>)</span><span class='op'>)</span></span>
 <span></span>
 <span><span class='va'>rd_boots_dist</span></span></code></pre>
 </div>
 <p><img src="index_files/figure-html5/unnamed-chunk-9-1.png" width="624" /></p>
 </div>
 <p>Partisan Average Outcomes in Racial Discrimination Cases</p>
-<p>Regression: After running a linear regression for Environmental Protection cases, the Y intercept is 0.610 when the ruling judge’s political party is not Republican, or conversely, when the judge is a Democrat. This indicates that on the 0-1 index of ruling against or in favor of a petitioner, Democrat judges have an average ruling outcome of 0.355 points. This means that if a Democrat judge were to become Republican, there would be an expected -0.090 point decrease in average case outcome in favor of a defendant / petitioner. The median of the bootstrap distribution appears to be centered around this point difference.</p>
+<p>Regression: After running a linear regression for Environmental Protection cases, the Y intercept is 0.355 when the ruling judge’s political party is not Republican, or conversely, when the judge is a Democrat. This indicates that on the 0-1 index of ruling against or in favor of a petitioner, Democrat judges have an average ruling outcome of 0.355 points. This means that if a Democrat judge were to become Republican, there would be an expected -0.090 point decrease in average case outcome in favor of a defendant / petitioner. The median of the bootstrap distribution appears to be centered around this point difference.</p>
 <p>Null hypothesis: After taking the difference in means for case outcome by party, we create a bootstrap distribution with repeated sampling of this difference. A 95% confidence interval is employed, shown by the two vertical lines on the graph. A 95% confidence interval means that across the repeated samples, the true value of difference in case outcome by political party will fall within the interval. If there is no difference at all, which would be our null hypothesis, this would be indicated by 0 falling within the confidence interval. However, this does not happen above, leading us to conclude that there is a statistically significant difference between Environmental Protection cases decided by Republican and Democrat judges.</p>
 <h2 id="conclusion">Conclusion</h2>
 <p>With the exception of freedom of expression, all of the other categories had statistically significant differences in outcome depending on whether the ruling judge was a Democrat or Republican. Within the freedom of expression cases, any partisan difference was minimal and not statistically significant. There are likely a multitude of reasons for this, but among them may be the vast field of legal precedents surrounding freedom of speech and expression cases. Through Supreme Court cases like “Brandenburg v. Ohio” and “United States v. O’Brien,” there are established legal tests that must be applied by lower courts whenever legal cases involving expression occur. In applying these tests and considering the field of legal precedent, this category may be an area where lower courts like Federal District Courts are not able to exercise as much discretion as would be found in other areas (e.g. Criminal Court Motions and Alien Petitions).</p>
